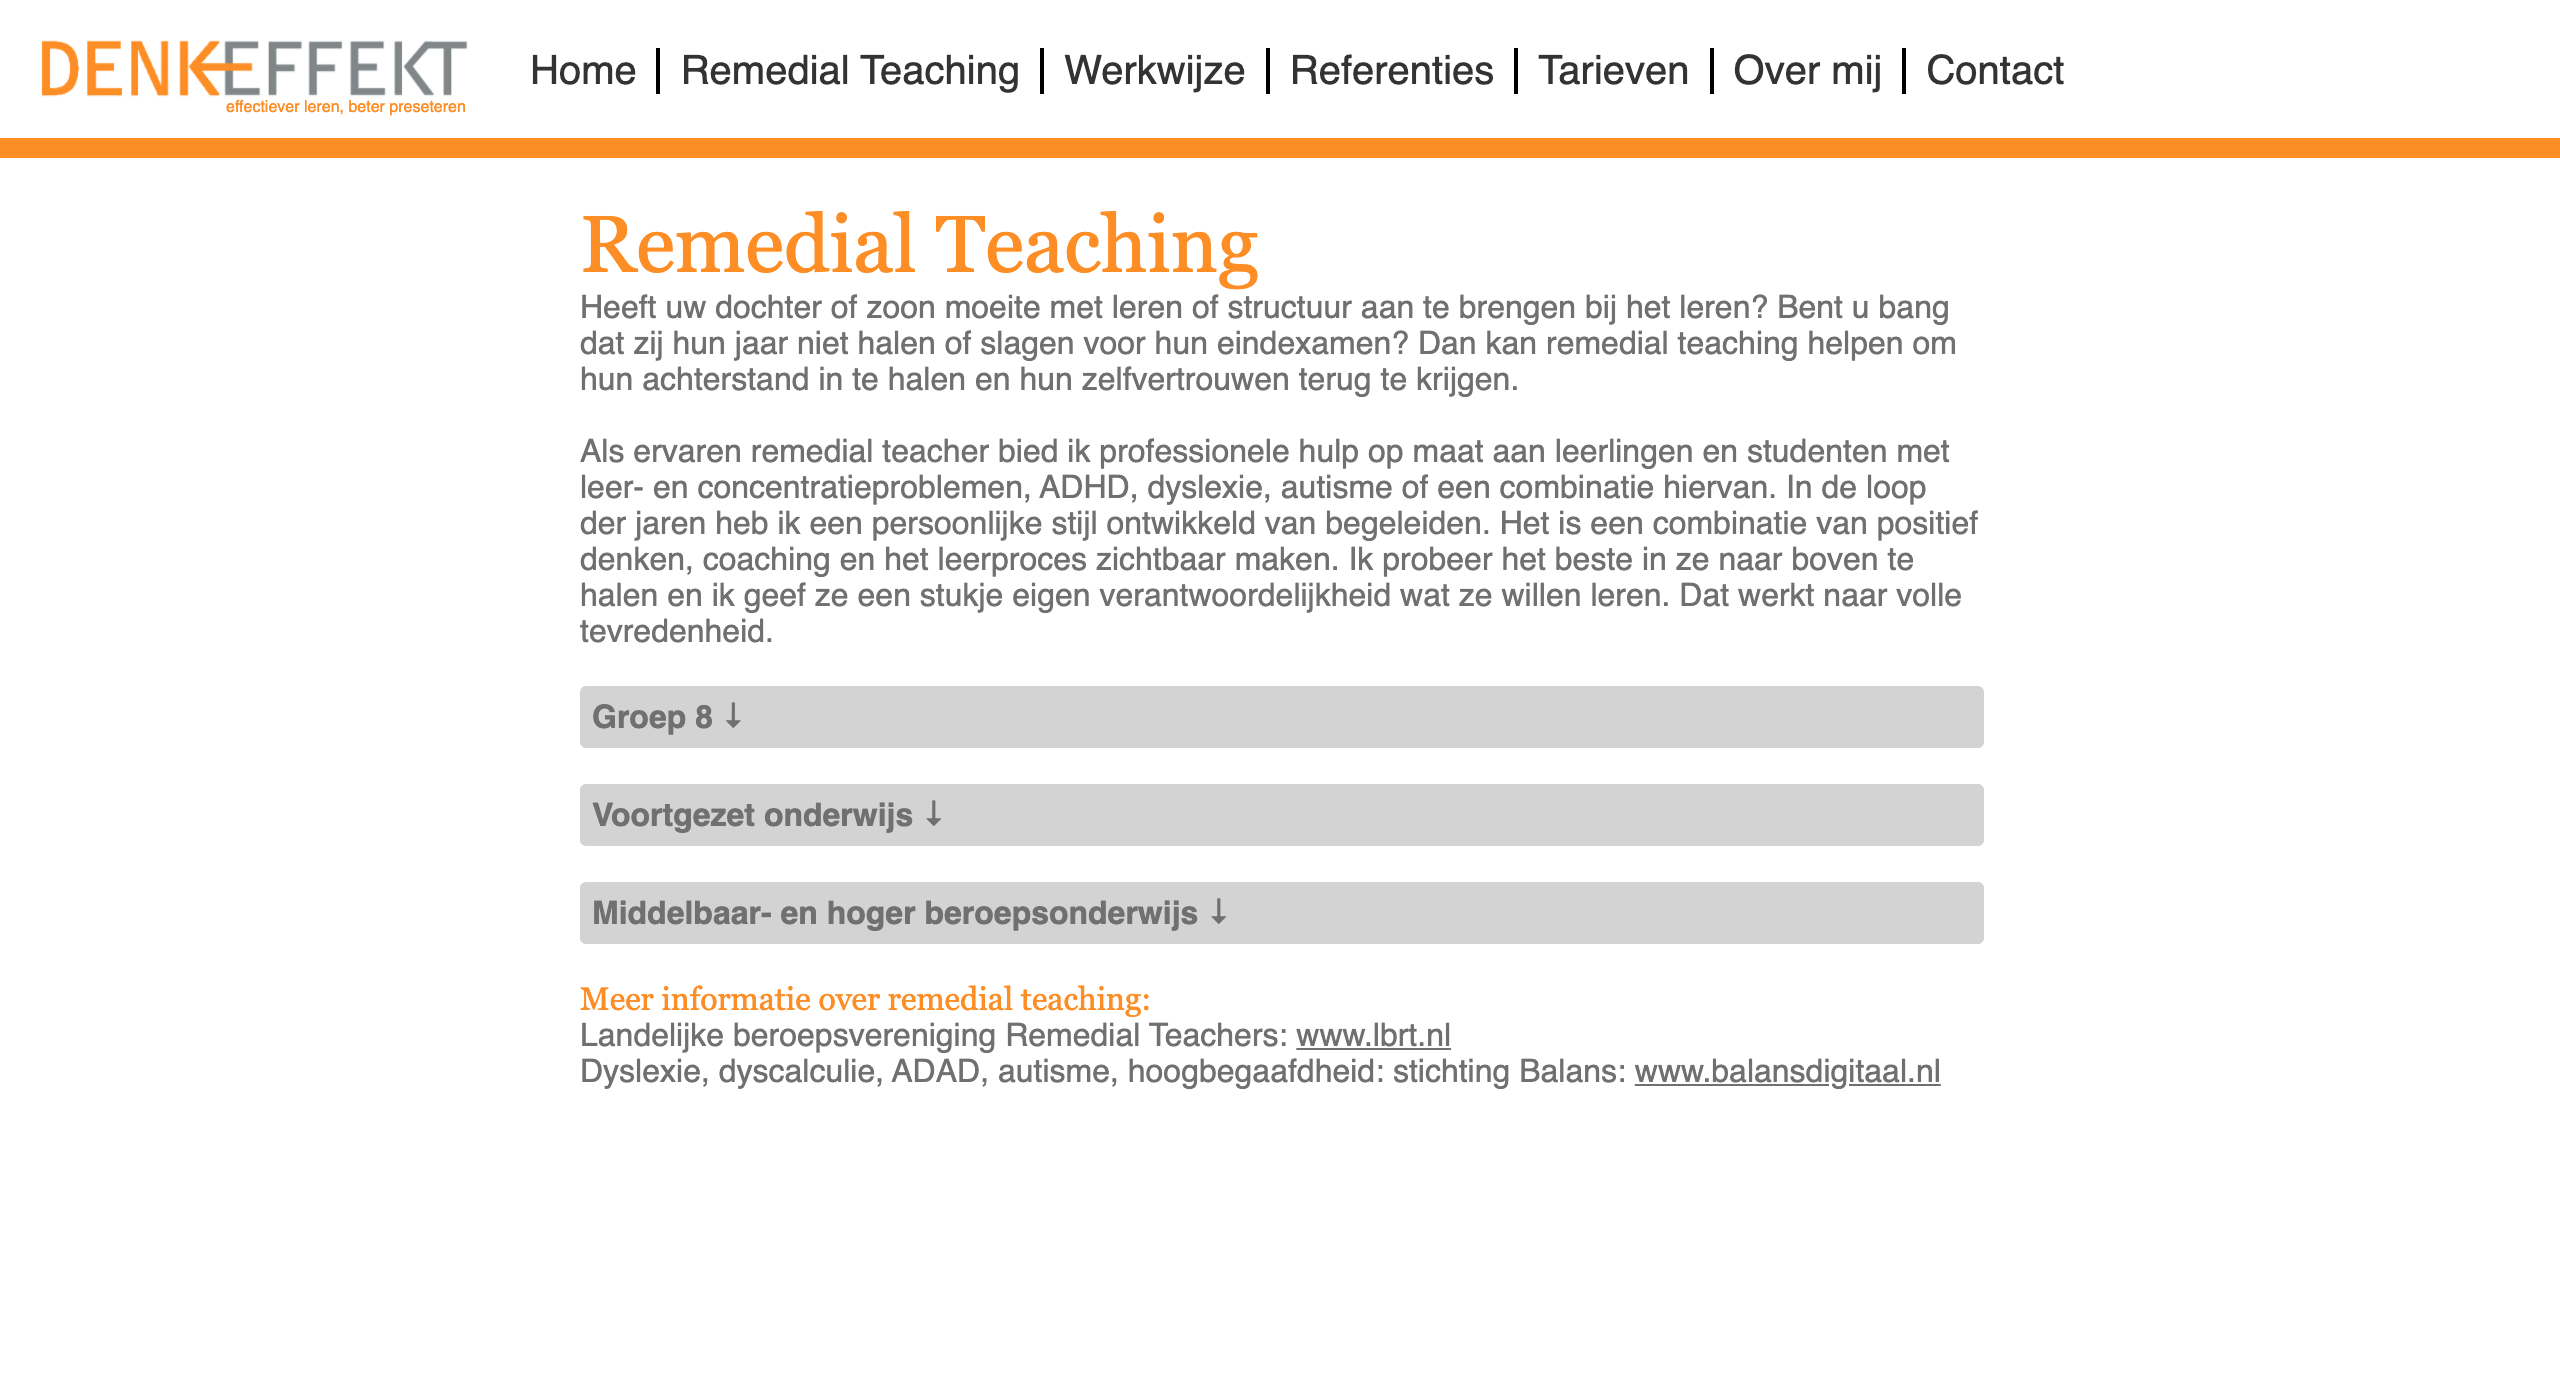
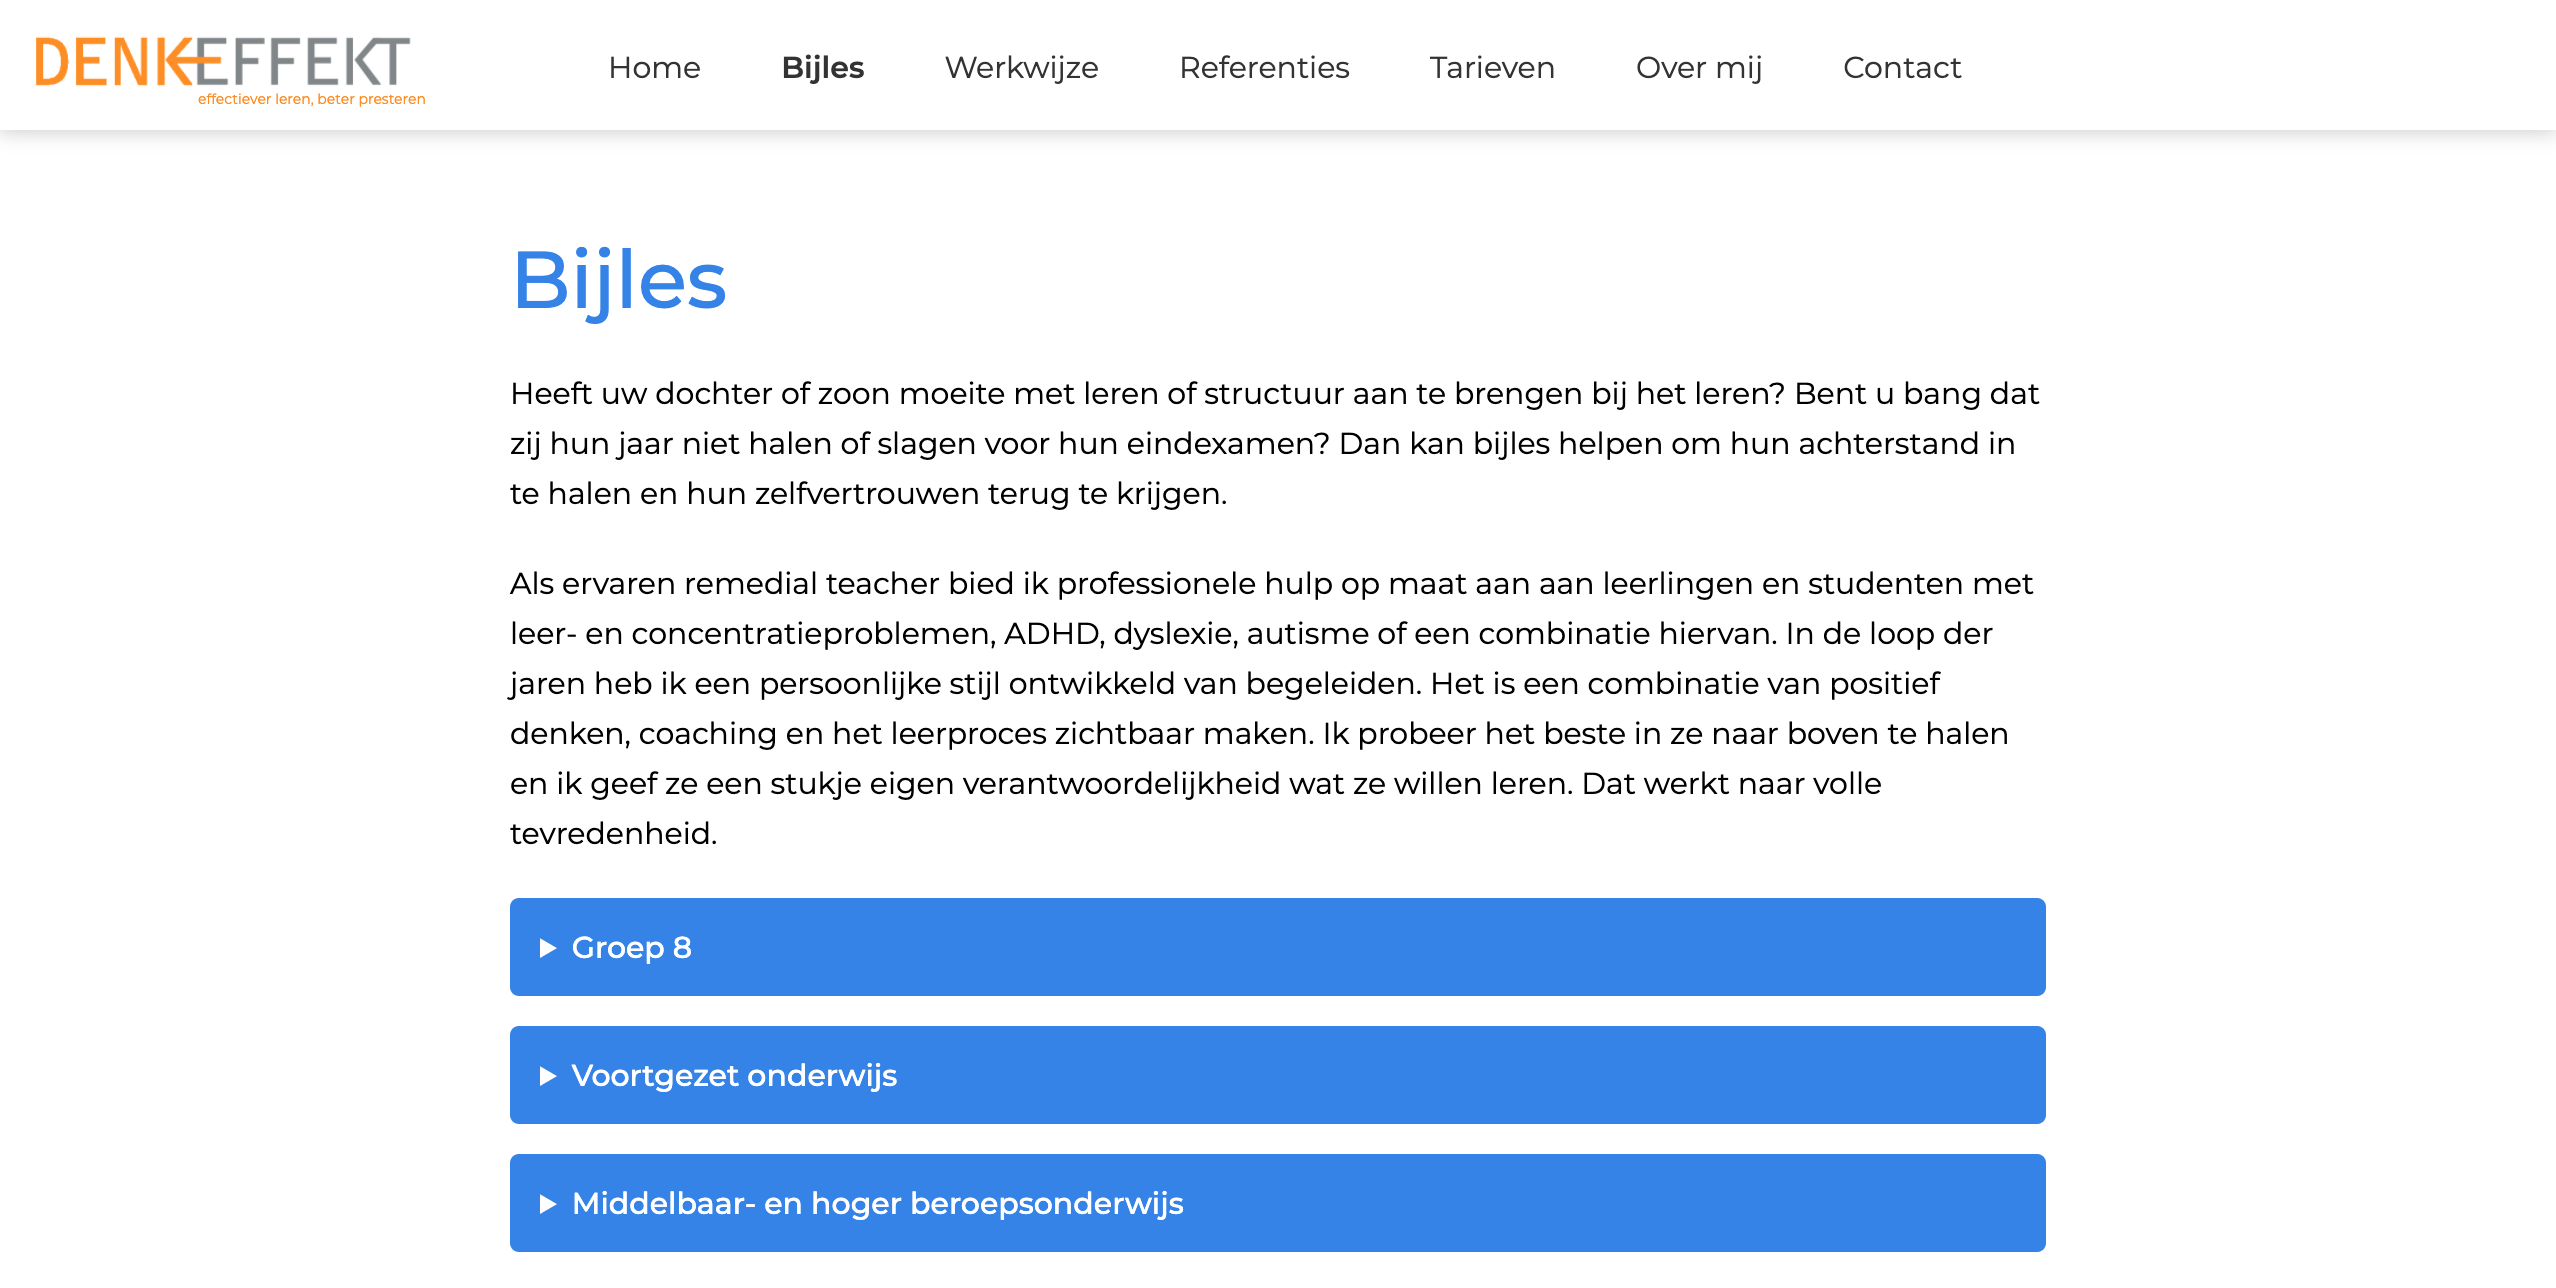
project updates

Changed region(s): [[0.1854, 0.1553, 0.8036, 0.9938], [0.0, 0.0311, 1.0, 0.1242], [0.2164, 0.0311, 0.8036, 0.0621]]

diff --git a/js/data.js b/js/data.js
@@ -1,115 +1,129 @@
 //All data in webapp
 
 const personalData = {
-    firstname: 'Maurits',
-    surname: 'Brouwer',
-    number: '97',
-    intro: 'Hi, ik ben Maurits Brouwer, een enthousiaste front end developer met een passie voor web design. Ik maak coole digitale producten en zorg dat de gebruiker altijd de juiste experience heeft.',
-    study: 'Ik ben afgestudeerd bij Communication & Multimedia Design aan de Haagse Hogeschool.',
-    image: {
-        portret: 'img/Portfolio_Website_Maurits_Brouwer.jpg',
-        signature: 'img/Maurits_Brouwer_Signature_Web.png',
-    },
-}
+  firstname: "Maurits",
+  surname: "Brouwer",
+  number: "97",
+  intro:
+    "Hi, ik ben Maurits Brouwer, een enthousiaste front end developer met een passie voor web design. Ik maak coole digitale producten en zorg dat de gebruiker altijd de juiste experience heeft.",
+  study:
+    "Ik ben afgestudeerd bij Communication & Multimedia Design aan de Haagse Hogeschool.",
+  image: {
+    portret: "img/Portfolio_Website_Maurits_Brouwer.jpg",
+    signature: "img/Maurits_Brouwer_Signature_Web.png",
+  },
+};
 
 const headlineData = {
-    one: {
-        number: 'Nr. 1',
-        text: 'Hello, world!'
-    },
-    two: {
-        number: 'Nr. 2',
-        text: 'Dit heb ik gemaakt.',
-    },
-    three: {
-        number: 'Nr. 3',
-        text: 'Zo kan jij mij bereiken.',
-    }
-}
+  one: {
+    number: "Nr. 1",
+    text: "Hello, world!",
+  },
+  two: {
+    number: "Nr. 2",
+    text: "Dit heb ik gemaakt.",
+  },
+  three: {
+    number: "Nr. 3",
+    text: "Zo kan jij mij bereiken.",
+  },
+};
 
 const workData = {
-    itemOne: {
-        image: 'img/brigittestarkportfolio/Maurits_Brouwer_Item_BrigitteStarkPortfolio2.png',
-        pagelink: '/artportfolio',
-        weblink: 'https://brigittestark.nl',
-        github: 'https://github.com/Maurits97/Brigitte-Portfolio',
-        header: 'Art portfolio',
-        text: 'Het art portfolio is in opdracht van Brigitte Stark gemaakt. Bij deze opdracht was ik verantwoordelijk voor zowel het design als de development. De website is op een efficiënte manier in elkaar gezet dankzij het Vue.js Framework. Met behulp van vue.js bleef mijn code "DRY" en kost het nauwelijks tijd om een nieuw kunstwerk aan de website toe te voegen. Daarnaast zorgt vue.js er ook voor dat er geen laadtijd is bij het aanklikken van een nieuwe pagina.'
-    },
-    itemTwo: {
-        image: 'img/denkeffekt/Maurits_Brouwer_Item_Denkeffekt1.jpg',
-        pagelink: '/denkeffekt',
-        weblink: 'https://denkeffekt.nl',
-        github: 'https://github.com/Maurits97/Denkeffekt',
-        header: 'Denkeffekt Remedial Teaching',
-        text: 'Denkeffekt is een praktijk voor bijles en coaching. Voor denkeffekt was ik verantwoordelijk voor zowel het design als de development. De website is zonder front-end frameworks gemaakt.'
-    }
-}
+  itemOne: {
+    image:
+      "img/brigittestarkportfolio/Maurits_Brouwer_Item_BrigitteStarkPortfolio2.png",
+    pagelink: "/artportfolio",
+    weblink: "https://brigittestark.nl",
+    github: "https://github.com/Maurits97/Brigitte-Portfolio",
+    header: "Art portfolio",
+    text:
+      'Het art portfolio is in opdracht van Brigitte Stark gemaakt. Bij deze opdracht was ik verantwoordelijk voor zowel het design als de development. De website is op een efficiënte manier in elkaar gezet dankzij het Vue.js Framework. Met behulp van vue.js bleef mijn code "DRY" en kost het nauwelijks tijd om een nieuw kunstwerk aan de website toe te voegen. Daarnaast zorgt vue.js er ook voor dat er geen laadtijd is bij het aanklikken van een nieuwe pagina.',
+  },
+  itemTwo: {
+    image: "img/denkeffekt/Maurits_Brouwer_Item_Denkeffekt1.png",
+    pagelink: "/denkeffekt",
+    weblink: "https://denkeffekt.nl",
+    github: "",
+    header: "Denkeffekt Remedial Teaching",
+    text:
+      "Denkeffekt is een praktijk voor bijles en coaching. Voor denkeffekt was ik verantwoordelijk voor zowel het design als de development. De website is zonder front-end frameworks gemaakt.",
+  },
+};
 
 const subworkData = {
-    itemOne: {
-        image: 'img/Maurits_Brouwer_Item_Afstudeeropdracht.png',
-        pagelink: '',
-        header: 'Online deliberation platform, graduation project',
-    },
-    itemTwo: {
-        image: 'img/Maurits_Brouwer_Item_Themawijk.png',
-        pagelink: '',
-        header: 'De Themawijk',
-    },
-    itemThree: {
-        image: 'img/Maurits_Brouwer_Item_Portfolio_Website1.png',
-         pagelink: '',
-         header: 'Portfolio Website 1.0',
-    },
-    itemFour: {
-        image: 'img/Maurits_Brouwer_Item_HCI.jpeg',
-        pagelink: '',
-        header: 'HCI Technologies',
-    },
-}
+  itemOne: {
+    image: "img/Maurits_Brouwer_Item_Afstudeeropdracht.png",
+    pagelink: "",
+    header: "Online deliberation platform, graduation project",
+  },
+  itemTwo: {
+    image: "img/Maurits_Brouwer_Item_Themawijk.png",
+    pagelink: "",
+    header: "De Themawijk",
+  },
+  itemThree: {
+    image: "img/Maurits_Brouwer_Item_Portfolio_Website1.png",
+    pagelink: "",
+    header: "Portfolio Website 1.0",
+  },
+  itemFour: {
+    image: "img/Maurits_Brouwer_Item_HCI.jpeg",
+    pagelink: "",
+    header: "HCI Technologies",
+  },
+};
 
 const contactData = {
-    header: 'Zo kan je mij contacteren.',
-    credentials: {
-        email: 'MauritsBrouwer@outlook.com' ,
-        other: {
-            title: 'Of neem een kijkje op mijn…',
-            linkedin: 'Linkedin',
-            instagram: 'Instagram',
-            twitter: 'Twitter',
-        },
+  header: "Zo kan je mij contacteren.",
+  credentials: {
+    email: "MauritsBrouwer@outlook.com",
+    other: {
+      title: "Of neem een kijkje op mijn…",
+      linkedin: "Linkedin",
+      instagram: "Instagram",
+      twitter: "Twitter",
     },
-}
+  },
+};
 
 const projectInfo = {
-    artportfolio: {
-        header: 'Art portfolio',
-        weblink: 'https://brigittestark.nl',
-        github: 'https://github.com/Maurits97/Brigitte-Portfolio',
-        text: {
-            one: 'Het art portfolio is in opdracht van Brigitte Stark gemaakt. Bij deze opdracht was ik verantwoordelijk voor zowel het design als de development. De website is op een efficiënte manier in elkaar gezet dankzij het Vue.js Framework. Met behulp van vue.js bleef mijn code "DRY" en kost het nauwelijks tijd om een nieuw kunstwerk aan de website toe te voegen. Daarnaast zorgt vue.js er ook voor dat er geen laadtijd is bij het aanklikken van een nieuwe pagina.',
-            two: 'Het belangrijkste onderdeel bij het ontwerpen van de website was om het simpel te houden. De focus moest liggen op de kunstwerken. Door de website strak en zwart/wit te houden valt je oog altijd als eerst op de kunstwerken. Om meer rust op de website te creëren is er ook gekozen om de woorden en regelhoogte wat te vergroten. Hierdoor oogt het wat rustiger op de website.',
-            three: 'Tijdens dit project heb ik leren werken met vue.js. Voorheen wist ik weinig hiervan af, maar aan de hand van stackoverflow en handige Youtube tutorials is het mij gelukt om een efficiënte en mooi project neer te zetten. Ook werd er in de css file gewerkt met sass (scss).'
-        },
-        image: {
-            one: 'img/brigittestarkportfolio/Maurits_Brouwer_Item_BrigitteStarkPortfolio1.png',
-            two: 'img/brigittestarkportfolio/Maurits_Brouwer_Item_BrigitteStarkPortfolio2.png',
-            three: 'img/brigittestarkportfolio/Maurits_Brouwer_Item_BrigitteStarkPortfolio3.jpg'
-        }
+  artportfolio: {
+    header: "Art portfolio",
+    weblink: "https://brigittestark.nl",
+    github: "https://github.com/Maurits97/Brigitte-Portfolio",
+    text: {
+      one:
+        'Het art portfolio is in opdracht van Brigitte Stark gemaakt. Bij deze opdracht was ik verantwoordelijk voor zowel het design als de development. De website is op een efficiënte manier in elkaar gezet dankzij het Vue.js Framework. Met behulp van vue.js bleef mijn code "DRY" en kost het nauwelijks tijd om een nieuw kunstwerk aan de website toe te voegen. Daarnaast is de website een Single Page Application (SPA) wat er voor zorgt dat er geen laadtijd is bij het aanklikken van een "nieuwe pagina". ',
+      two:
+        "Het belangrijkste onderdeel bij het ontwerpen van de website was om het simpel te houden. De focus moest liggen op de kunstwerken. Door de website strak en zwart/wit te houden valt je oog altijd als eerst op de kunstwerken. Om meer rust op de website te creëren is er ook gekozen om de woorden en regelhoogte wat te vergroten. Hierdoor oogt het wat rustiger op de website.",
+      three:
+        "Tijdens dit project heb ik leren werken met vue.js. Voorheen wist ik weinig hiervan af, maar met behulp van stackoverflow en handige Youtube tutorials is het mij gelukt om een efficiënte en mooi project neer te zetten. Ook werd er gebruikt gemaakt van scss.",
     },
-    denkeffekt: {
-        header: 'Denkeffekt remedial teaching',
-        weblink: 'https://denkeffekt.nl',
-        github: 'https://github.com/Maurits97/Denkeffekt',
-        text: {
-            one: 'Denkeffekt is een praktijk voor bijles en coaching. Voor denkeffekt was ik verantwoordelijk voor zowel het design als de development. De website is zonder front-end frameworks gemaakt.',
-            two: 'Denkeffekt had al een logo met unieke kleuren. Deze kleuren, oranje en grijs, zijn daarom ook gekozen als huisstijl van de website. De website bestaat uit een aantal paginas met informatie over de praktijk. Elke pagina is voorzien van een referentie van oud leerlingen.',
-            three: 'Het programmeerwerk is relatief basic, standaard HTML en CSS en beetje javascript. Wel is er gebruik gemaakt van de Google maps API om het adres te tonen onder het kopje contact.'
-        },
-        image: {
-            one: 'img/denkeffekt/Maurits_Brouwer_Item_Denkeffekt1.jpg',
-            two: 'img/denkeffekt/Maurits_Brouwer_Item_Denkeffekt2.png'
-        }
+    image: {
+      one:
+        "img/brigittestarkportfolio/Maurits_Brouwer_Item_BrigitteStarkPortfolio1.png",
+      two:
+        "img/brigittestarkportfolio/Maurits_Brouwer_Item_BrigitteStarkPortfolio2.png",
+      three:
+        "img/brigittestarkportfolio/Maurits_Brouwer_Item_BrigitteStarkPortfolio3.jpg",
     },
-}
+  },
+  denkeffekt: {
+    header: "Denkeffekt remedial teaching",
+    weblink: "https://denkeffekt.nl",
+    github: "",
+    text: {
+      one:
+        "Denkeffekt is een praktijk voor bijles en coaching. Voor denkeffekt was ik verantwoordelijk voor zowel het design als de development. De website is zonder front-end frameworks gemaakt.",
+      two:
+        "Denkeffekt had al een logo met unieke kleuren. Deze kleuren, oranje en grijs, zijn daarom ook gekozen als huisstijl van de website. Om de website wat frisser te maken, is samen met de opdrachtgever gekozen om een lichte blauw aan de huisstijl toe te voegen. De website bestaat uit een aantal paginas met informatie over de praktijk. Elke pagina is voorzien van een referentie van oud leerlingen.",
+      three:
+        "Het programmeerwerk is relatief basic, standaard HTML en CSS en beetje javascript. Wel is er gebruik gemaakt van de Google maps API om het adres te tonen onder het kopje contact.",
+    },
+    image: {
+      one: "img/denkeffekt/Maurits_Brouwer_Item_Denkeffekt1.png",
+      two: "img/denkeffekt/Maurits_Brouwer_Item_Denkeffekt2.png",
+    },
+  },
+};

diff --git a/js/templates.js b/js/templates.js
@@ -38,7 +38,7 @@ const homepage = {
 				<div class='work__item__link'>
 					<router-link :to= 'item.pagelink'><i class="arrow__circle material-icons-outlined ">arrow_drop_down_circle</i>Lees meer..</router-link>
 					<a :href='item.weblink' target='blank' ><i class="arrow__circle material-icons-outlined">arrow_drop_down_circle</i>Bekijk website..</a>
-					<a :href='item.github' target='blank' ><i class="arrow__circle material-icons-outlined">arrow_drop_down_circle</i>Github</a>
+					<a :href='item.github' target='blank' v-if="item.github != ''" ><i class="arrow__circle material-icons-outlined">arrow_drop_down_circle</i>Github</a>
 				</div>
 				<div class="work__item__info">
 					<p class='work__item__text'> {{ item.text }}</p>
@@ -91,7 +91,7 @@ const project = {
 			<h3 class='work__item__header'> {{projectInfo[$route.params.project].header}} </h3>
 			<div class='work__item__link'>
 				<a :href='projectInfo[$route.params.project].weblink' target='blank' ><i class="arrow__circle material-icons-outlined">arrow_drop_down_circle</i>Bekijk website..</a>
-				<a :href='projectInfo[$route.params.project].github' target='blank' ><i class="arrow__circle material-icons-outlined">arrow_drop_down_circle</i>Github</a>
+				<a :href='projectInfo[$route.params.project].github' target='blank' v-if="projectInfo[$route.params.project].github != ''"><i class="arrow__circle material-icons-outlined">arrow_drop_down_circle</i>Github</a>
 			</div>
 			<div class="work__item__info">
 				<p class='work__item__text project--morewidth' v-for="text in projectInfo[$route.params.project].text" > {{text}}</p>
